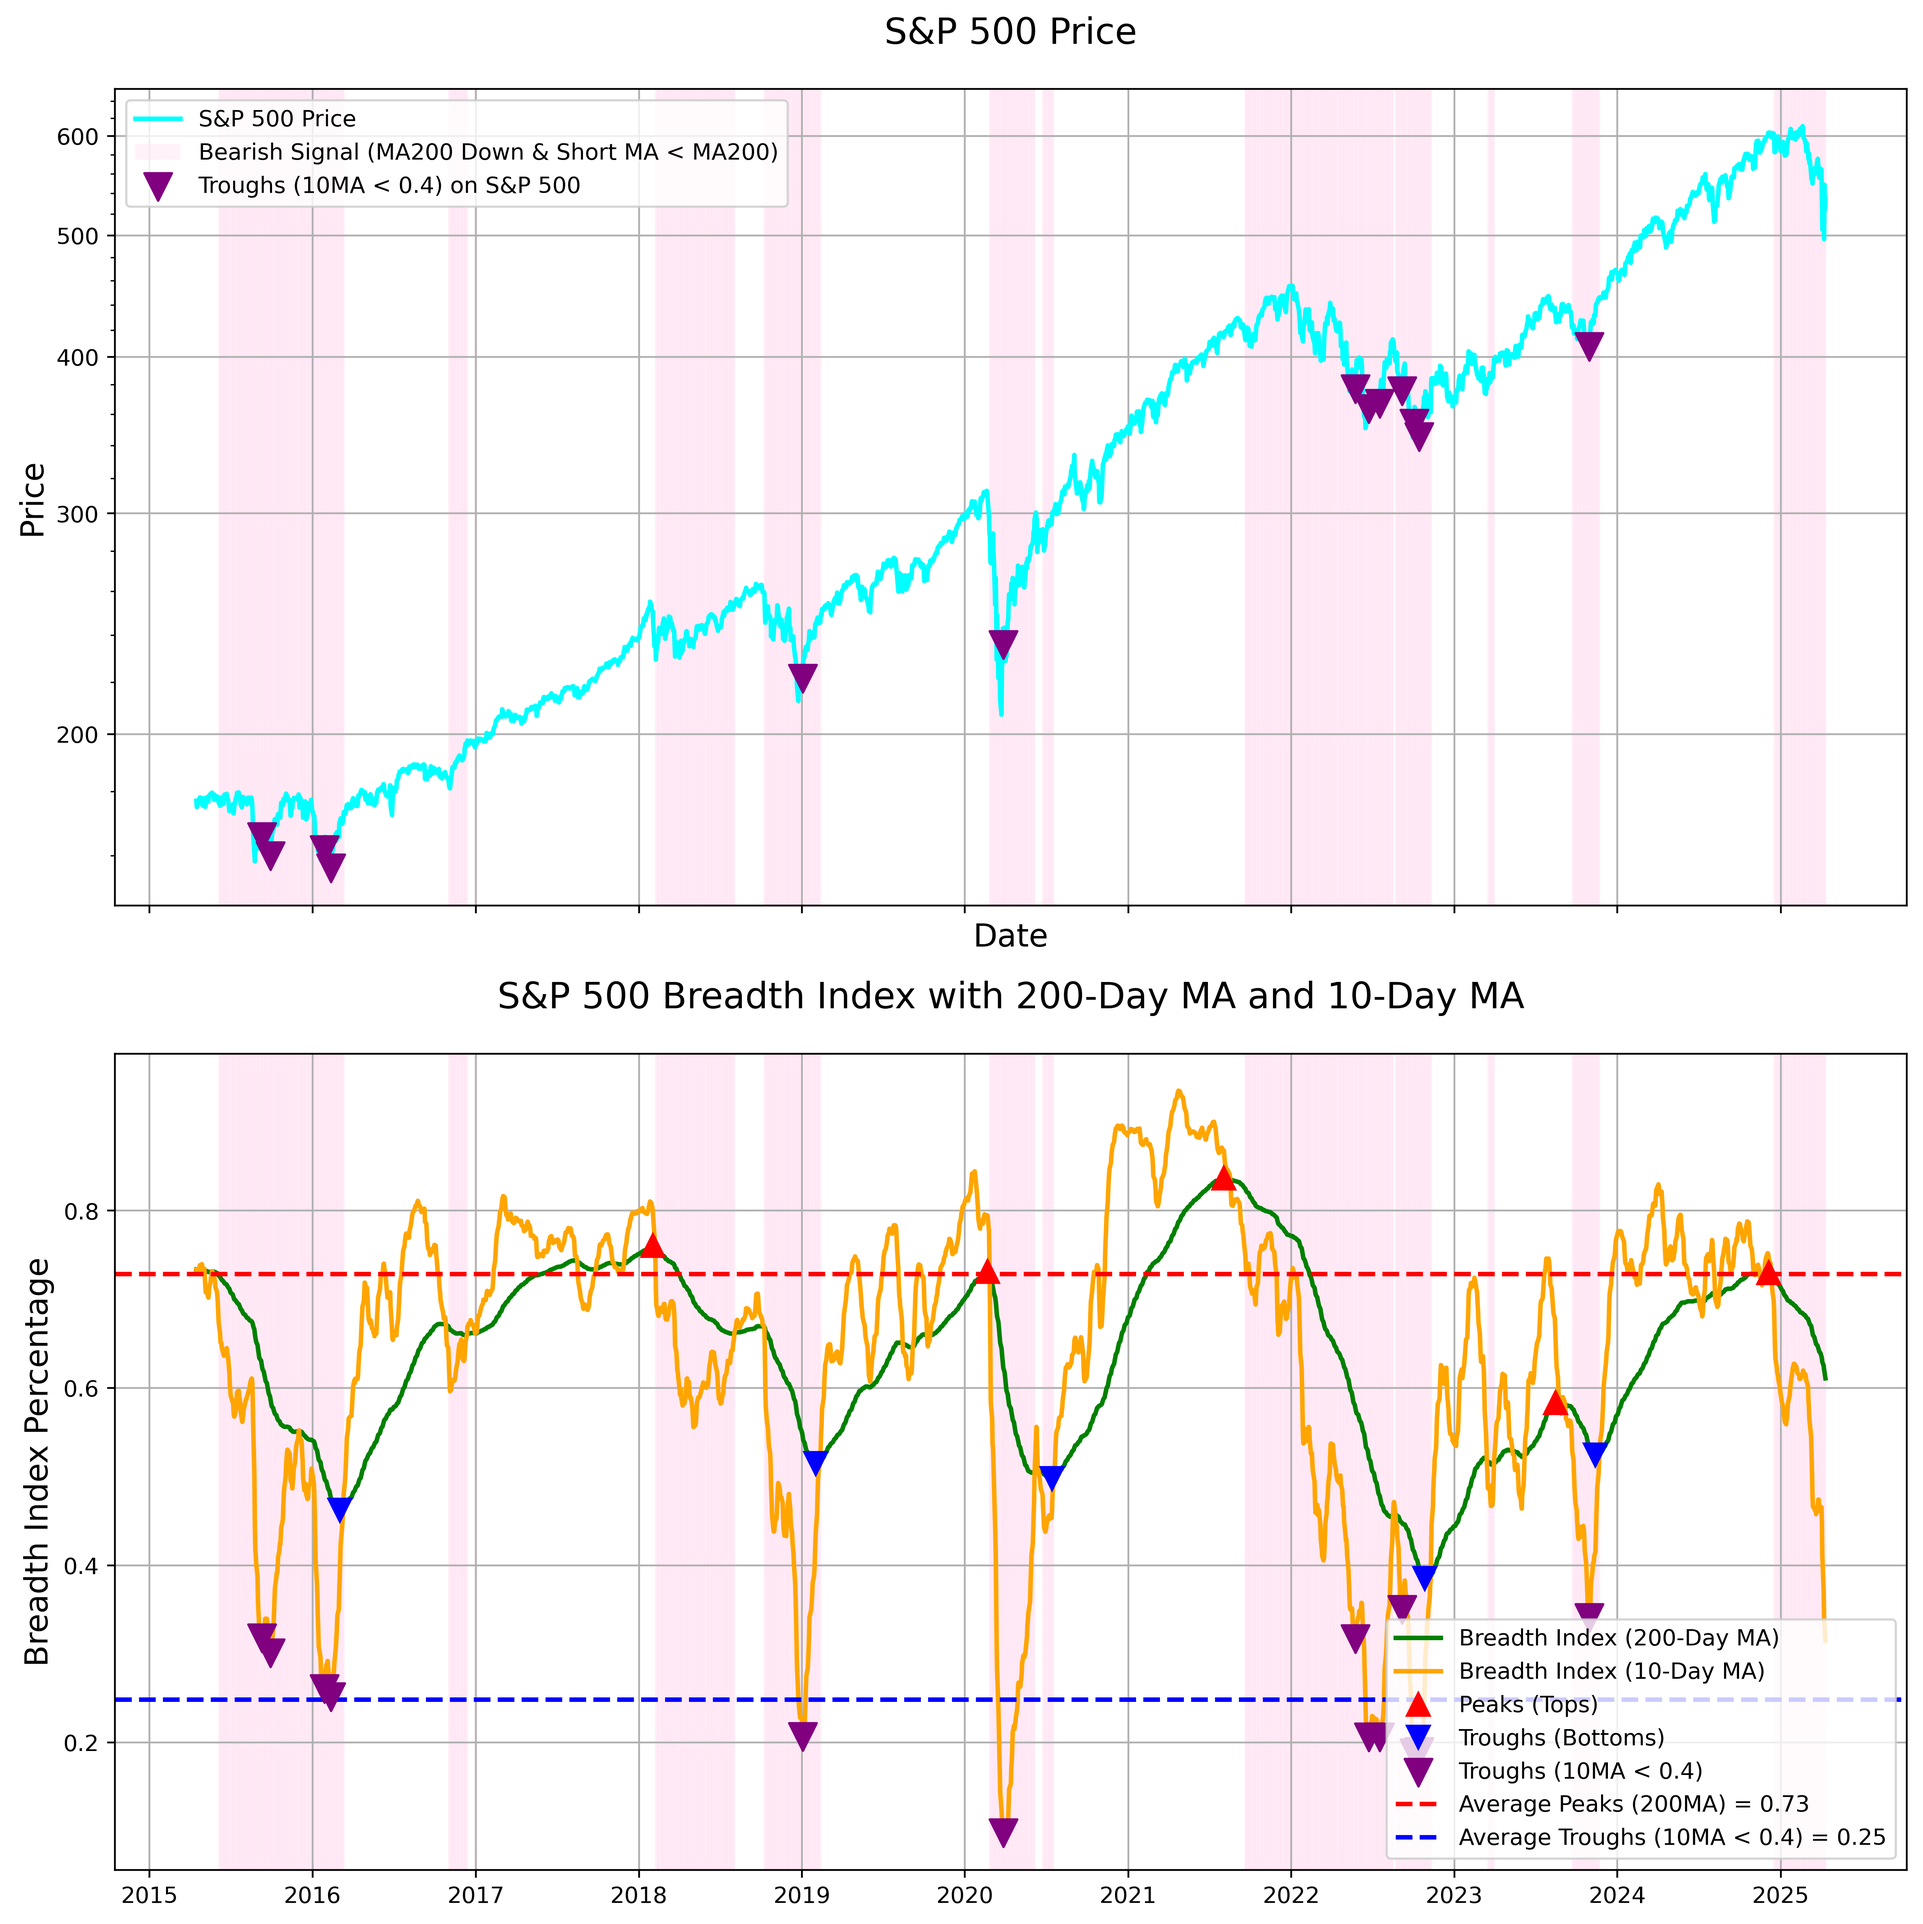
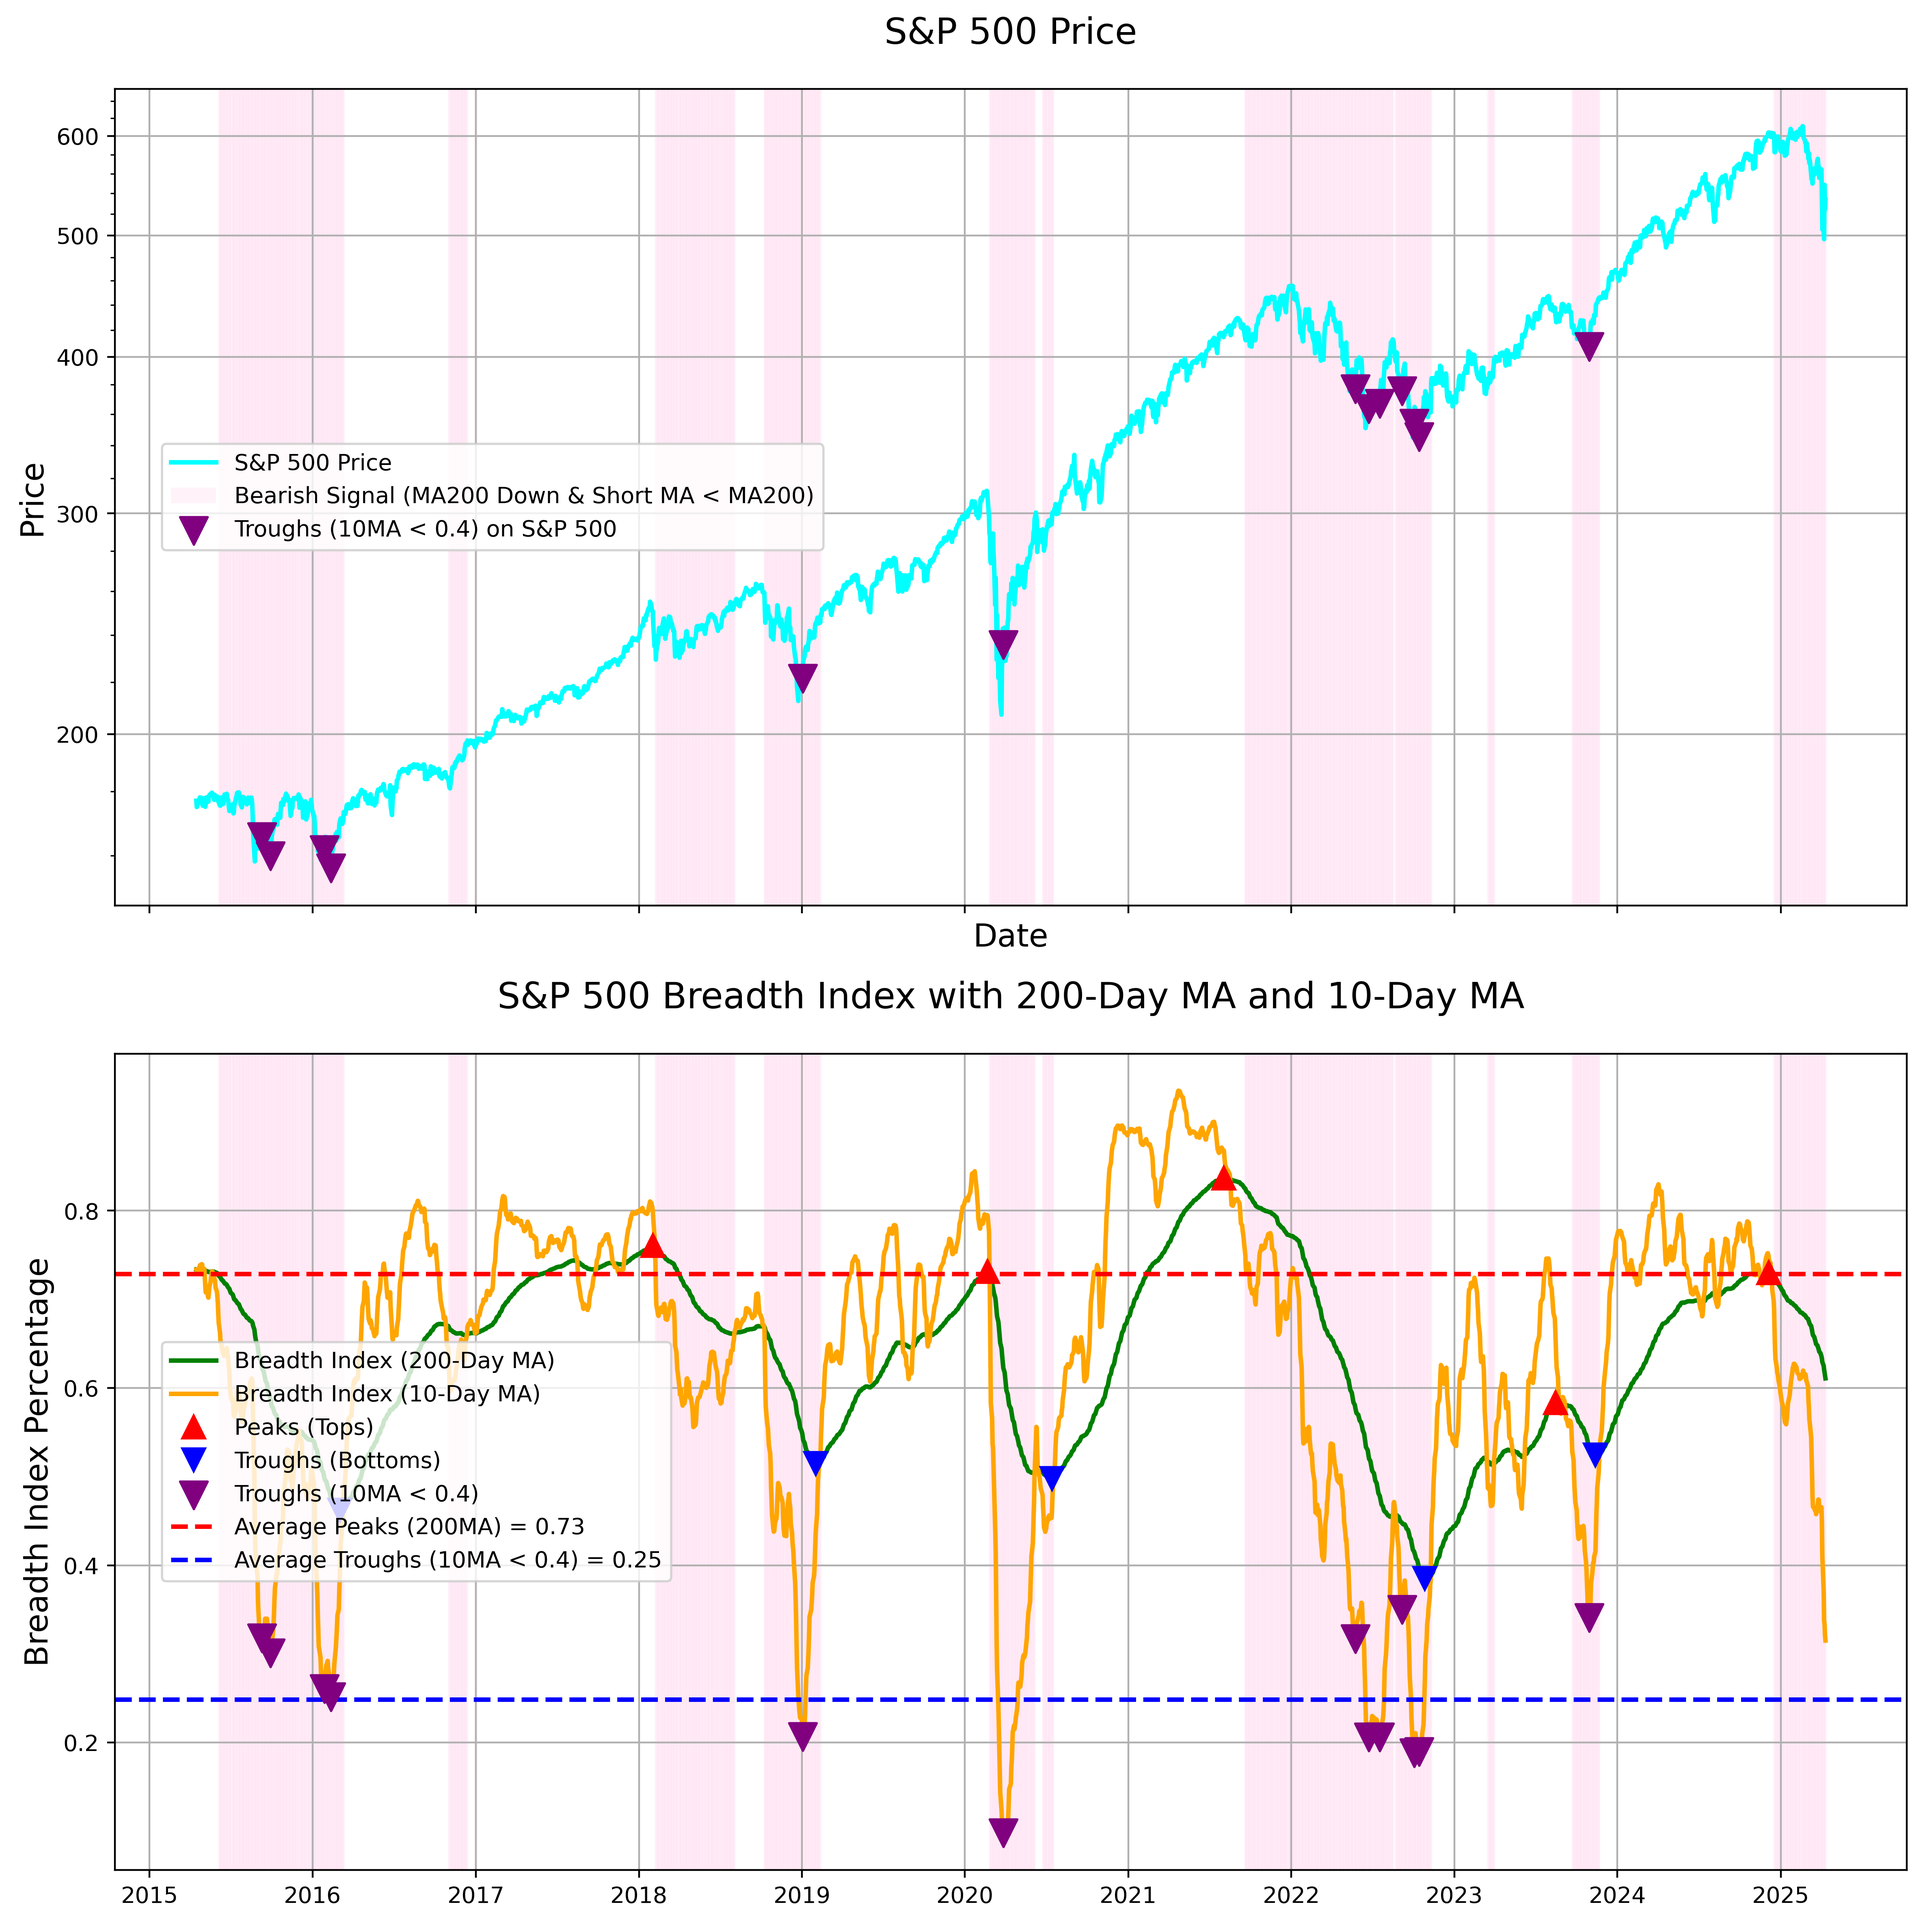
Update market breadth analysis and add GitHub Actions workflow

diff --git a/reports/index.html b/reports/index.html
@@ -118,44 +118,43 @@
                     });
             }
             
-            // First, try to load today's MA20 image
-            const todayFormatted = formatDate(today);
-            const todayImagePath = `market_breadth_${todayFormatted}_ma20.png`;
-            img.src = todayImagePath;
+            // First, try to load the latest market breadth image
+            const latestImagePath = 'market_breadth.png';
+            img.src = latestImagePath;
             
             img.onload = function() {
                 errorMessage.style.display = 'none';
                 img.style.display = 'block';
-                updateLastModifiedDate(todayImagePath);
+                updateLastModifiedDate(latestImagePath);
             };
             
             img.onerror = function() {
-                // If today's image fails, try yesterday's image
-                const yesterday = new Date(today);
-                yesterday.setDate(yesterday.getDate() - 1);
-                const yesterdayFormatted = formatDate(yesterday);
-                const yesterdayImagePath = `market_breadth_${yesterdayFormatted}_ma20.png`;
+                // If the latest image fails, try today's MA10 image
+                const todayFormatted = formatDate(today);
+                const todayMA10ImagePath = `market_breadth_${todayFormatted}_ma10.png`;
                 
-                img.src = yesterdayImagePath;
+                img.src = todayMA10ImagePath;
                 
                 img.onload = function() {
                     errorMessage.style.display = 'none';
                     img.style.display = 'block';
-                    updateLastModifiedDate(yesterdayImagePath);
+                    updateLastModifiedDate(todayMA10ImagePath);
                 };
                 
                 img.onerror = function() {
-                    // If both date-based images fail, try sample_output.png
-                    img.src = 'sample_output.png';
+                    // If today's MA10 image fails, try today's MA5 image
+                    const todayMA5ImagePath = `market_breadth_${todayFormatted}_ma5.png`;
+                    
+                    img.src = todayMA5ImagePath;
                     
                     img.onload = function() {
                         errorMessage.style.display = 'none';
                         img.style.display = 'block';
-                        updateLastModifiedDate('sample_output.png');
+                        updateLastModifiedDate(todayMA5ImagePath);
                     };
                     
                     img.onerror = function() {
-                        // If sample image also fails, show error message
+                        // If all attempts fail, show error message
                         errorMessage.style.display = 'block';
                         img.style.display = 'none';
                     };

diff --git a/market_breadth.py b/market_breadth.py
@@ -635,7 +635,7 @@ def plot_breadth_and_sp500_with_peaks(above_ma_200, sp500_data, short_ma_period=
     # Add custom legend with the background patch and larger markers
     handles, labels = axs[0].get_legend_handles_labels()
     handles.insert(1, background_patch)
-    axs[0].legend(handles=handles, loc='upper left')
+    axs[0].legend(handles=handles, loc='center left', bbox_to_anchor=(0.02, 0.5))
     
     axs[0].grid(True)
 
@@ -658,7 +658,7 @@ def plot_breadth_and_sp500_with_peaks(above_ma_200, sp500_data, short_ma_period=
 
     axs[1].set_title(f'S&P 500 Breadth Index with 200-Day MA and {short_ma_period}-Day MA', pad=20, fontsize=16)  # Set title font size directly
     axs[1].set_ylabel('Breadth Index Percentage', fontsize=14)  # Set y-axis label font size directly
-    axs[1].legend()
+    axs[1].legend(loc='center left', bbox_to_anchor=(0.02, 0.5))
     axs[1].grid(True)
 
     plt.tight_layout()

diff --git a/reports/backtest_results_summary.md b/reports/backtest_results_summary.md
@@ -1,6 +1,6 @@
 # ETF Backtest Results Summary
 
-Date: 2025-04-13 12:49:19
+Date: 2025-04-13 13:00:19
 
 Period: 2001-01-01 to 2024-12-31
 
